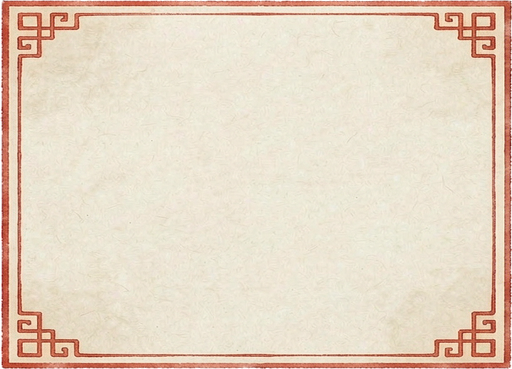
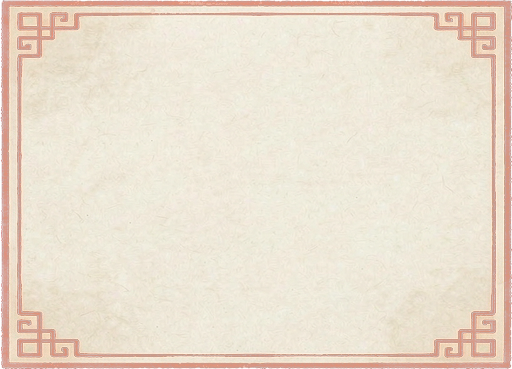
fix(ui): 修我引入的 MissingReferenceException（异步循环活得比面板久）+ 格子画框做淡
【① P0：MissingReferenceException —— 我的 bug】
```
RectTransform has been destroyed but you are still trying to access it
  at ActIntroPanel.SlowPushAsync()
```
原因：`SlowPushAsync` 等**异步循环的生命周期比面板长** —— 面板被销毁后循环还在跑，
      再去写 `tt.localScale` 就抛异常（Unity 里"已销毁对象"!= null 判断要通过 `== null` 才认）。
⇒ 给**全部 5 处异步循环**加"面板已销毁"护栏：
  `SlowPushAsync`（每帧判 `tt == null` → return）· `UpdateInkBlotsLoop`（`b.Rt/b.Img` 判空）·
  `UpdateLeavesLoop`（`this == null` → return）· `PlaySealAsync`（`rt == null` → return）·
  `BrushSfxLoopAsync`（`this == null` → return）。
📌 教训：**任何 `UniTaskVoid` 循环都必须假设"宿主可能先死"** —— 每次迭代开头判一次宿主/成员是否已销毁。

【② 九宫格格子"变红/抢眼"】
`cell.png` 本身是米色纸 + 细墨线框（代码选图也对：只有中宫格用 `cell_center`），
问题是**这套卡片本身太重**（棕红细框 + 切角），跟战场背景打架。
⇒ 把深色线条**提亮 + 大幅降低不透明度**、纸底也再透一点 ⇒ 变成"淡淡的纸卡"，
   不再抢画面。若你更想要**原来的纯色格子**，删掉
   `Resources/UI/Board/cell.png` 与 `cell_center.png` 即可 —— 代码会自动回退程序化纯色（无需改代码）。

Changed region(s): [[0.0, 0.0, 1.0, 1.0]]

diff --git a/Assets/WanXiang/Modules/UI/ActIntroPanel.cs b/Assets/WanXiang/Modules/UI/ActIntroPanel.cs
@@ -319,6 +319,7 @@ namespace WanXiang.Modules.UI
             float d2 = 0.26f; e = 0f;
             while (e < d2)
             {
+                if (rt == null) return;                         // ⛔ 面板已销毁
                 if (s_Skip) break;
                 e += Time.unscaledDeltaTime;
                 float k = Mathf.Clamp01(e / d2);
@@ -336,6 +337,7 @@ namespace WanXiang.Modules.UI
         {
             for (int i = 0; i < 3; i++)
             {
+                if (this == null) return;                       // ⛔ 面板已销毁 ⇒ 别再放音效
                 PlaySfx("brush", 0.75f);
                 await UniTask.Delay(Ms(Mathf.Max(0.5f, total * 0.32f)));
             }
@@ -349,10 +351,14 @@ namespace WanXiang.Modules.UI
             float dur = Mathf.Max(1f, _writeTotal + _hold + 0.6f), e = 0f;
             while (e < dur)
             {
+                // ⛔ 必须每帧判空：本循环活得比面板久（面板先被销毁时，tt 会变成"已销毁"对象），
+                //   直接写 localScale 会抛 MissingReferenceException（用户实测过）。
+                if (tt == null) return;
                 e += Time.unscaledDeltaTime;
                 tt.localScale = Vector3.one * Mathf.Lerp(0.975f, 1.02f, Mathf.Clamp01(e / dur));
                 await UniTask.Yield();
             }
+            if (tt == null) return;
             tt.localScale = Vector3.one * 1.02f;
         }
 
@@ -435,7 +441,7 @@ namespace WanXiang.Modules.UI
                 for (int i = 0; i < _inkBlots.Count; i++)
                 {
                     var b = _inkBlots[i];
-                    if (b.Rt == null) continue;
+                    if (b.Rt == null || b.Img == null) continue;   // ⛔ 面板销毁后这些都变"已销毁"，必须跳过
                     if (b.Delay > 0f) { b.Delay -= dt; any = true; continue; }
 
                     b.Age += dt;
@@ -686,6 +692,7 @@ namespace WanXiang.Modules.UI
             while (true)
             {
                 bool any = false;
+                if (this == null) return;                       // ⛔ 面板已销毁 ⇒ 直接收工
                 if (s_Skip) { _leaves.Clear(); break; }
                 float dt = Time.unscaledDeltaTime;
                 for (int i = 0; i < _leaves.Count; i++)
